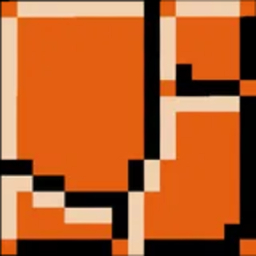
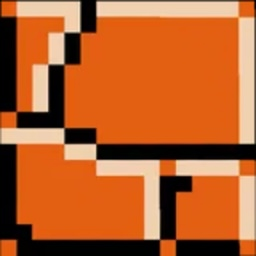
fixed texture rotations

diff --git a/src/Camera.js b/src/Camera.js
@@ -8,7 +8,6 @@ class Camera {
   }
 
   forward() {
-    console.log("forward");
     let f = new Vector3(this.at.elements);
     f.sub(this.eye).normalize();
     f.mul(this.stepSize);
@@ -17,7 +16,6 @@ class Camera {
   }
 
   back() {
-    console.log("back");
     let f = new Vector3(this.eye.elements);
     f.sub(this.at).normalize();
     f.mul(this.stepSize);
@@ -26,7 +24,6 @@ class Camera {
   }
 
   left() {
-    console.log("left");
     let f = new Vector3(this.eye.elements);
     f.sub(this.at).normalize();
     let s = Vector3.cross(f, this.up).normalize();
@@ -36,7 +33,6 @@ class Camera {
   }
 
   right() {
-    console.log("right");
     let f = new Vector3(this.eye.elements);
     f.sub(this.at).normalize();
     let s = Vector3.cross(this.up, f).normalize();
@@ -45,13 +41,52 @@ class Camera {
     this.at.add(s);
   }
 
-  turnLeft() {
-    console.log("turn left");
-    
+  panLeft() {
+    let alpha = 5; // Rotation angle in degrees
+    let radians = (alpha * Math.PI) / 180;
+    let f = new Vector3(this.at.elements);
+    f.sub(this.eye).normalize();
+
+    let cosA = Math.cos(radians);
+    let sinA = Math.sin(radians);
+    let ux = this.up.x,
+      uy = this.up.y,
+      uz = this.up.z;
+
+    let rotationMatrix = [
+      [
+        cosA + ux * ux * (1 - cosA),
+        ux * uy * (1 - cosA) - uz * sinA,
+        ux * uz * (1 - cosA) + uy * sinA,
+      ],
+      [
+        uy * ux * (1 - cosA) + uz * sinA,
+        cosA + uy * uy * (1 - cosA),
+        uy * uz * (1 - cosA) - ux * sinA,
+      ],
+      [
+        uz * ux * (1 - cosA) - uy * sinA,
+        uz * uy * (1 - cosA) + ux * sinA,
+        cosA + uz * uz * (1 - cosA),
+      ],
+    ];
+
+    let f_prime = new Vector3([
+      rotationMatrix[0][0] * f.x +
+        rotationMatrix[0][1] * f.y +
+        rotationMatrix[0][2] * f.z,
+      rotationMatrix[1][0] * f.x +
+        rotationMatrix[1][1] * f.y +
+        rotationMatrix[1][2] * f.z,
+      rotationMatrix[2][0] * f.x +
+        rotationMatrix[2][1] * f.y +
+        rotationMatrix[2][2] * f.z,
+    ]);
+
+    this.at.set(this.eye).add(f_prime);
   }
 
-  turnRight() {
-    console.log("turn right");
-    
-  }
+  panLeft() {}
+
+  panRight() {}
 }

diff --git a/src/Cube.js b/src/Cube.js
@@ -27,10 +27,10 @@ class Cube {
 
     this.cubeUVs = new Float32Array([
       // Front face
-      1, 0, 1, 1, 0, 1, 1, 0, 0, 1, 0, 0,
+      0, 0, 1, 0, 1, 1, 0, 0, 1, 1, 0, 1,
 
       // Back face
-      0, 1, 0, 0, 1, 0, 0, 1, 1, 0, 1, 1,
+      0, 0, 1, 0, 1, 1, 0, 0, 1, 1, 0, 1,
 
       // Top face
       0, 1, 1, 1, 1, 0, 0, 1, 1, 0, 0, 0,
@@ -42,7 +42,7 @@ class Cube {
       1, 0, 1, 1, 0, 1, 1, 0, 0, 1, 0, 0,
 
       // Right face
-      0, 1, 0, 0, 1, 0, 0, 1, 1, 0, 1, 1,
+      0, 0, 0, 1, 1, 1, 0, 0, 1, 1, 1, 0,
     ]);
   }
 

diff --git a/src/World.js b/src/World.js
@@ -274,10 +274,10 @@ function keydown(ev) {
     camera.right();
   } else if (ev.keyCode == 81) {
     // Q
-    camera.turnLeft();
+    camera.panLeft();
   } else if (ev.keyCode == 69) {
     // E
-    camera.turnRight();
+    camera.panRight();
   }
 
   renderScene();
